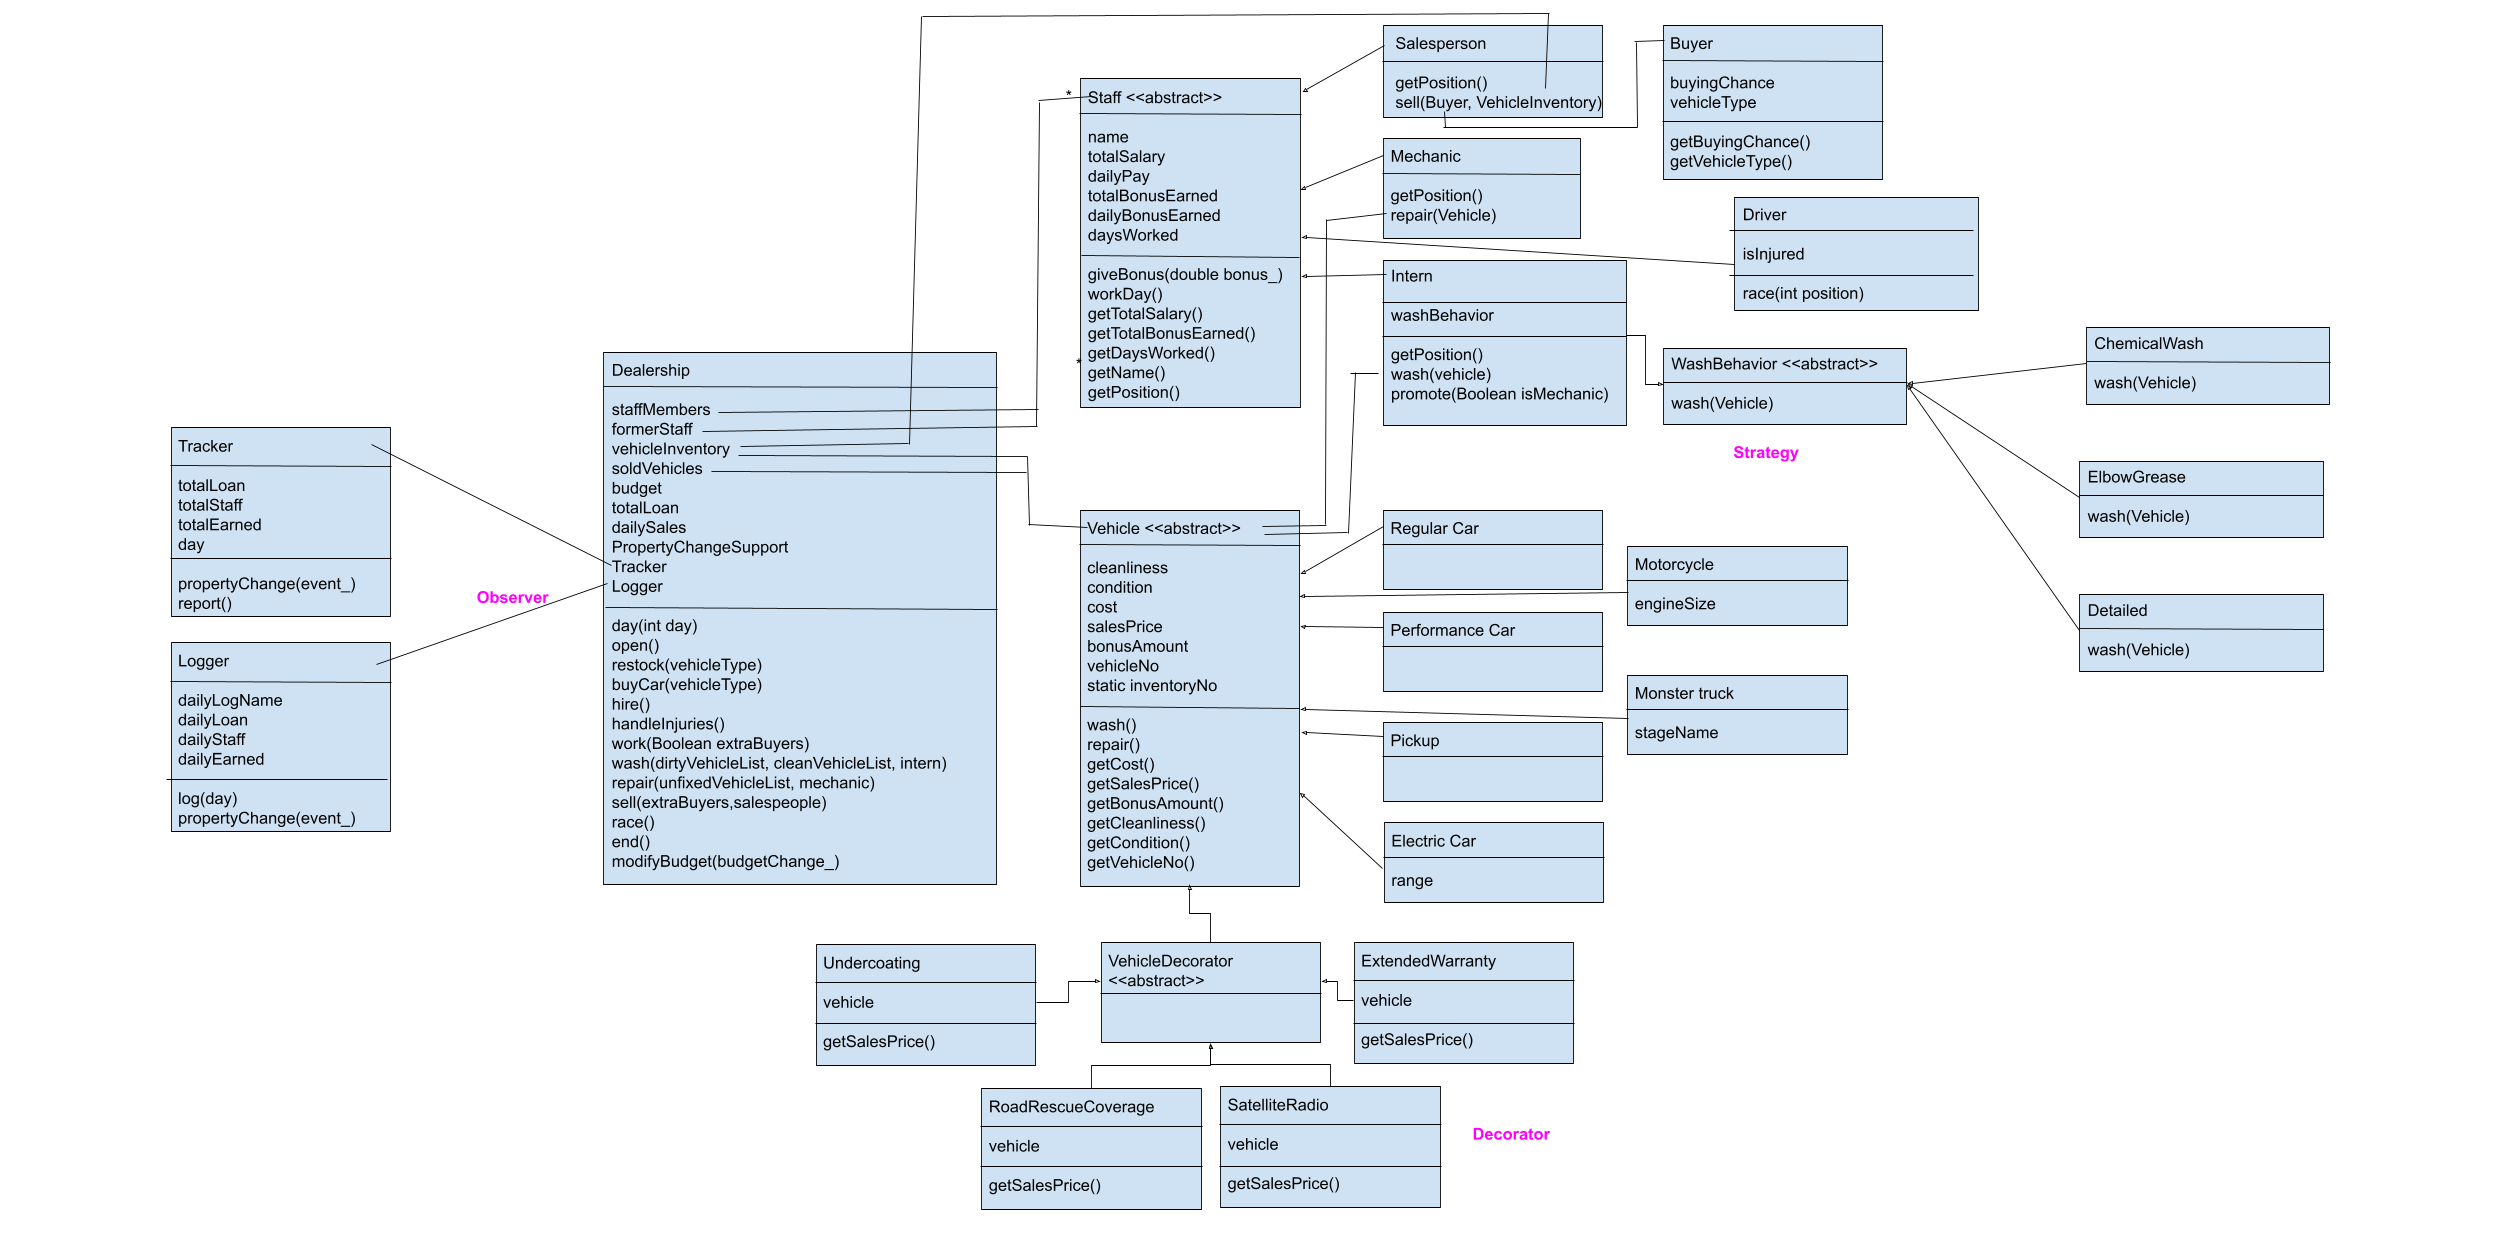
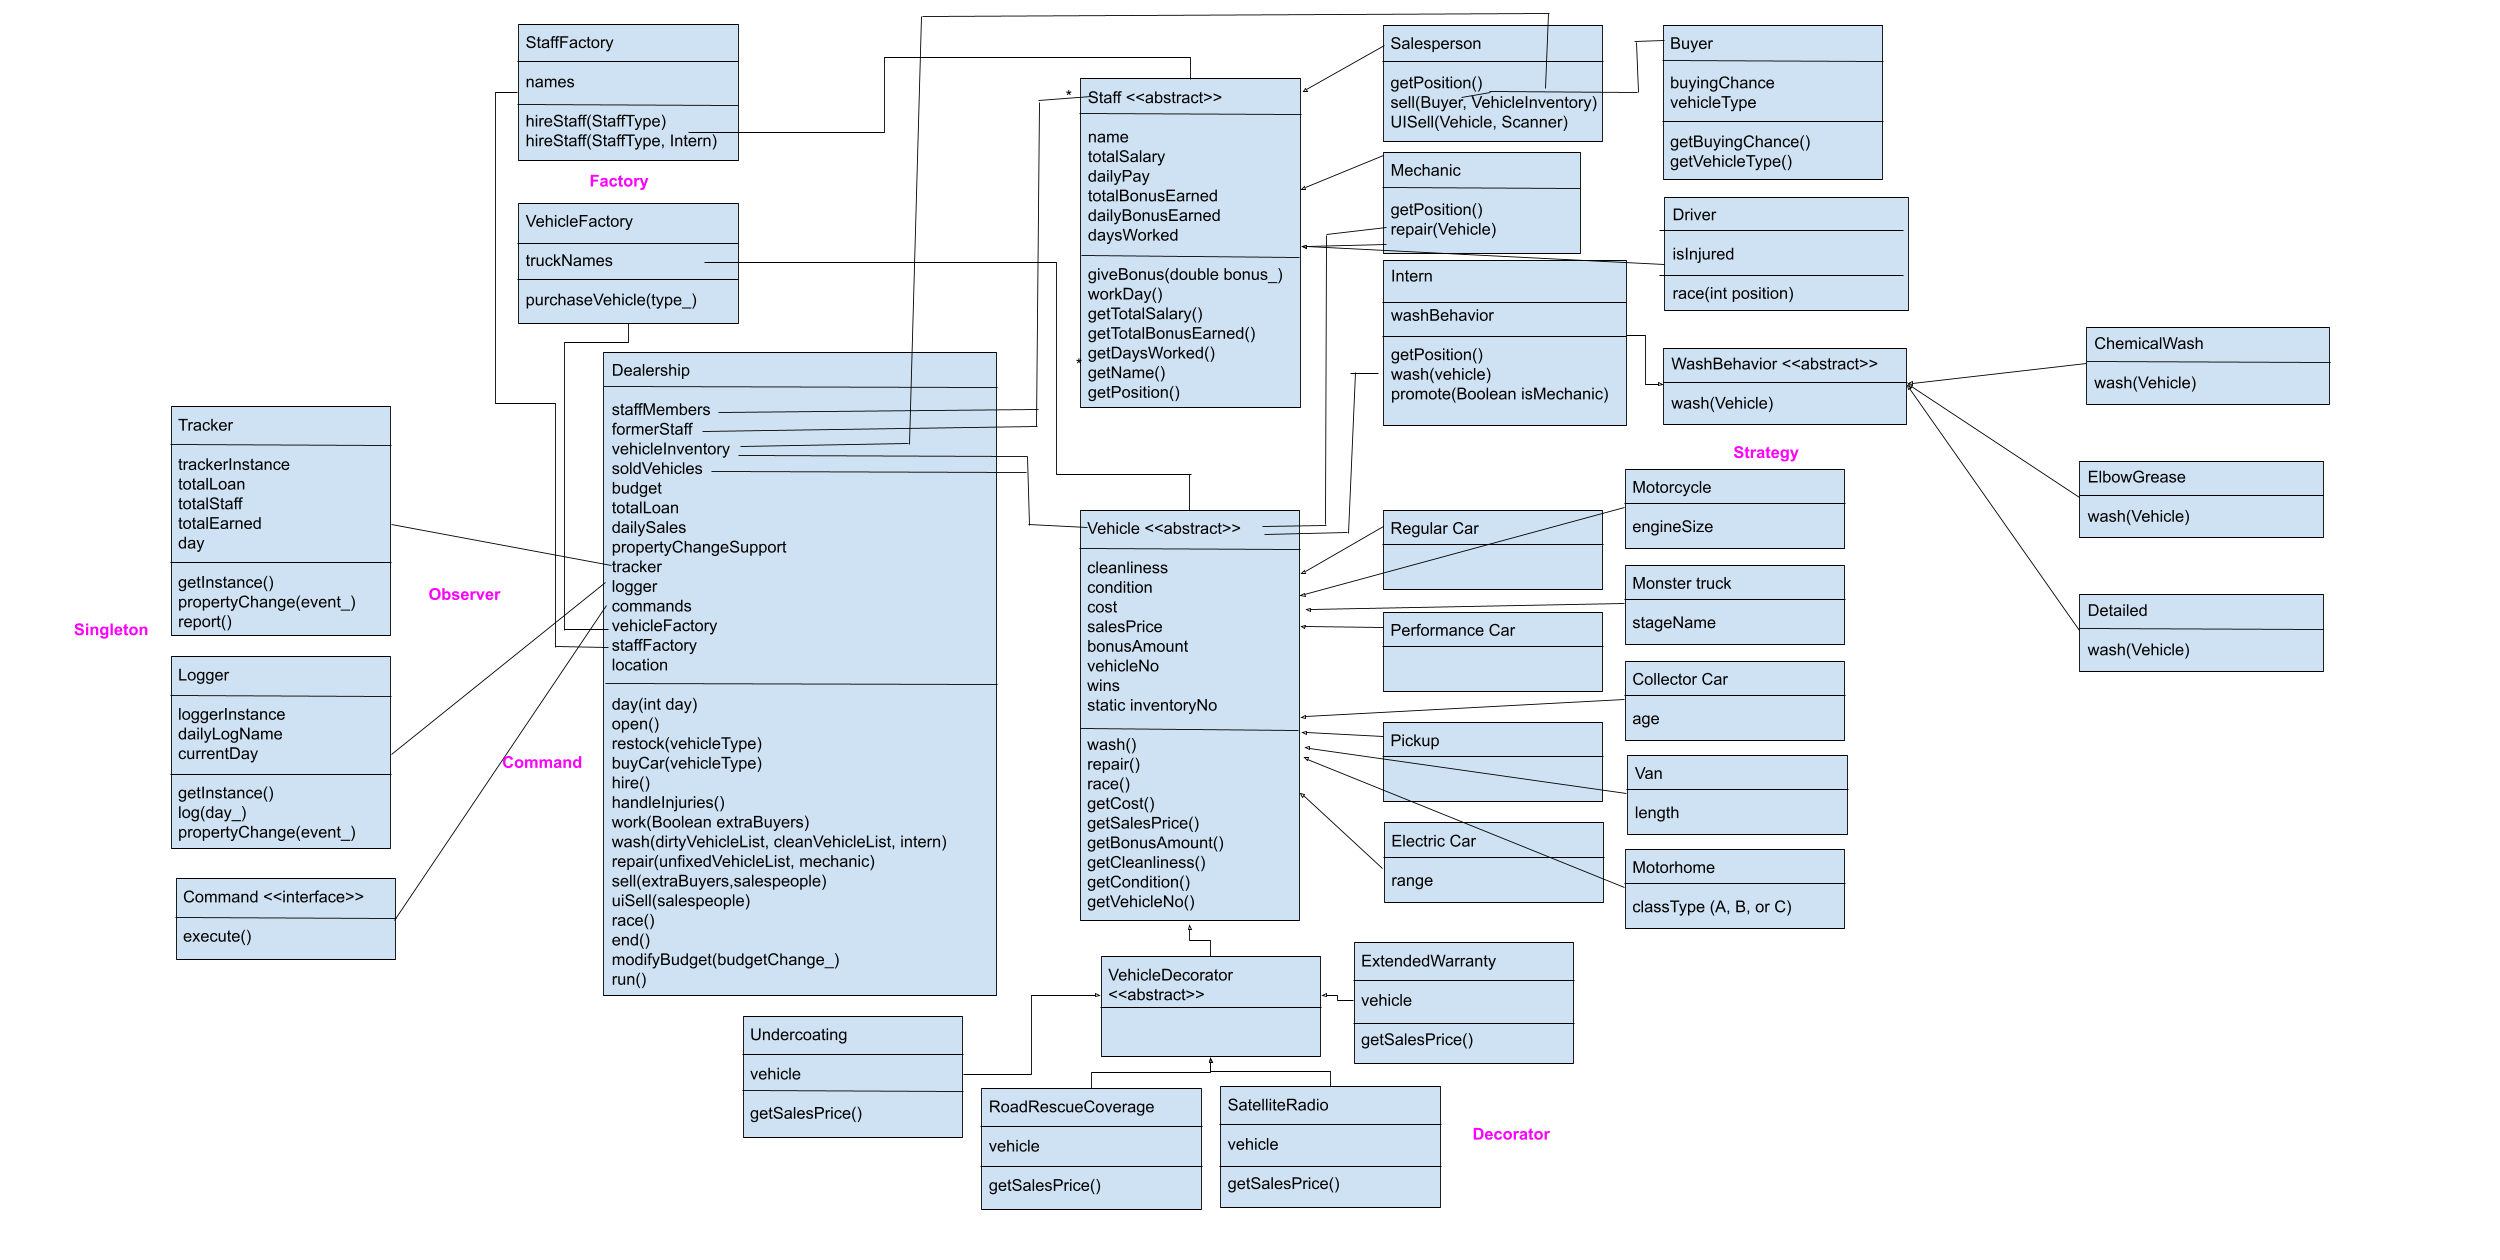
comments, uml diagram, readme

diff --git a/src/main/java/classes/staff/StaffFactory.java b/src/main/java/classes/staff/StaffFactory.java
@@ -6,6 +6,7 @@ import java.util.ArrayList;
 import java.util.Arrays;
 import java.util.Random;
 
+// OO PATTERN: FACTORY
 public class StaffFactory {
     private ArrayList<String> names = new ArrayList<>(Arrays.asList("John", "William", "James", "Charles", "George", "Frank", "Joseph", "Thomas", "Henry", "Robert", "Edward", "Harry", "Walter", "Arthur", "Fred", "Albert", "Samuel", "David", "Louis", "Joe", "Charlie", "Clarence", "Richard", "Andrew", "Daniel", "Ernest", "Will", "Jesse", "Oscar", "Lewis", "Peter", "Benjamin", "Frederick", "Willie", "Alfred", "Sam", "Roy", "Herbert", "Jacob", "Tom", "Elmer", "Carl", "Lee", "Howard", "Martin", "Michael", "Bert", "Herman", "Jim", "Francis", "Harvey", "Earl", "Eugene", "Ralph", "Ed", "Claude", "Edwin", "Ben", "Charley", "Paul", "Edgar", "Isaac", "Otto", "Luther", "Lawrence", "Ira", "Patrick", "Guy", "Oliver", "Theodore", "Hugh", "Clyde", "Alexander", "August", "Floyd", "Homer", "Jack", "Leonard", "Horace", "Marion", "Philip", "Allen", "Archie", "Stephen", "Chester", "Willis", "Raymond", "Rufus", "Warren", "Jessie", "Milton", "Alex", "Leo", "Julius", "Ray", "Sidney", "Bernard", "Dan", "Jerry", "Calvin", "Perry", "Dave", "Anthony", "Eddie", "Amos", "Dennis", "Clifford", "Leroy", "Wesley", "Alonzo", "Garfield", "Franklin", "Emil", "Leon", "Nathan", "Harold", "Matthew", "Levi", "Moses", "Everett", "Lester", "Winfield", "Adam", "Lloyd", "Mack", "Fredrick", "Jay", "Jess", "Melvin", "Noah", "Aaron", "Alvin", "Norman", "Gilbert", "Elijah", "Victor", "Gus", "Nelson", "Jasper", "Silas", "Christopher", "Jake", "Mike", "Percy", "Adolph", "Maurice", "Cornelius", "Felix", "Reuben", "Wallace", "Claud", "Roscoe", "Sylvester", "Earnest", "Hiram", "Otis", "Simon", "Willard", "Irvin", "Mark", "Jose", "Wilbur", "Abraham", "Virgil", "Clinton", "Elbert", "Leslie", "Marshall", "Owen", "Wiley", "Anton", "Morris", "Manuel", "Phillip", "Augustus", "Emmett", "Eli", "Nicholas", "Wilson", "Alva", "Harley", "Newton", "Timothy", "Marvin", "Ross", "Curtis", "Edmund", "Jeff", "Elias", "Harrison", "Stanley", "Columbus", "Lon", "Ora", "Ollie", "Russell", "Pearl", "Solomon", "Arch", "Asa"));
     

diff --git a/src/main/java/classes/Dealership.java b/src/main/java/classes/Dealership.java
@@ -628,6 +628,8 @@ public class Dealership extends Thread {
         Scanner scan = new Scanner(System.in);
         final Salesperson[] seller = {salespeople_.get(rng.nextInt(salespeople_.size()))};
         salespeople_.remove(seller[0]);
+        
+        // OO PATTERN: COMMAND
         HashMap<String, Command> commandMap = new HashMap<>();
         commandMap.put("switch", (n) -> {
             unlock.release();
@@ -679,6 +681,7 @@ public class Dealership extends Thread {
             return "Thank you for your purchase";
             
         });
+        
         
         lock.acquire();
         String usrIn = "";

diff --git a/src/main/java/classes/Tracker.java b/src/main/java/classes/Tracker.java
@@ -11,6 +11,8 @@ public class Tracker implements PropertyChangeListener {
     double totalStaff;
     double totalEarned;
     int day;
+    
+    // OO PATTERN: SINGLETON (EAGER)
     static Tracker trackerInstance = new Tracker();
     
     private Tracker(){}

diff --git a/src/main/java/classes/Logger.java b/src/main/java/classes/Logger.java
@@ -20,6 +20,7 @@ public class Logger implements PropertyChangeListener {
     
     int currentDay = 1;
     
+    // OO PATTERN: SINGLETON (LAZY)
     static Logger loggerInstance;
     
     public static synchronized Logger getInstance(int day_) {

diff --git a/src/main/java/classes/vehicles/VehicleFactory.java b/src/main/java/classes/vehicles/VehicleFactory.java
@@ -6,6 +6,7 @@ import java.util.ArrayList;
 import java.util.HashMap;
 import java.util.Random;
 
+// OO PATTERN: FACTORY
 public class VehicleFactory {
     
     /**

diff --git a/src/main/java/classes/Command.java b/src/main/java/classes/Command.java
@@ -1,5 +1,6 @@
 package classes;
 
+// OO PATTERN: COMMAND
 public interface Command {
     public String execute(int param_) throws InterruptedException;
 }

diff --git a/README.md b/README.md
@@ -21,19 +21,15 @@ forgotten to include at all in our first draft.
 
 #### Changes from 3.1
 We had some changes on the UML Diagram between Project 3.1 and 3.2. Most were relatively minor with some implementation details concerning parameters and functions for Tracker and Logger and Dealership. We also added the WashBehavior subclasses. For Project 3.1 we had a decent idea with what had to be done and a good baseline to start with, so there were no major structural changes
-## OO Elements
 
-Inheritance - Dealership:158
+#### Changes from 4.1
+We had some minor changes on the UML Diagram in Project 4.2.
 
-Polymorphism - Dealership:314
+1. We added the `UISell(Vehicle, Scanner)` to `Salesperson`
+2. We move the static `names` and `stageNames` lists from the abstract classes to their respective factories to head off any threading issues
+3. We added a second `hireStaff()` method to `StaffFactory` to handle promoting interns
+4. Most notably, we converted `Dealership` to an implementation of `Thread`, and added the `run()` method
 
-Cohesion - Dealership:147
-
-Identity - Dealership:273
-
-Encapsulation - Dealership:365
-
-Abstraction - Vehicle:90
 
 ## File Structure
 
@@ -66,6 +62,7 @@ ooad-fncd
     │       │
     │       ├───classes
     │       │   │   Buyer.java
+    │       │   │   Command.java
     │       │   │   Dealership.java
     │       │   │   Logger.java
     │       │   │   Tracker.java
@@ -83,6 +80,7 @@ ooad-fncd
     │       │   │   │   Mechanic.java
     │       │   │   │   Salesperson.java
     │       │   │   │   Staff.java
+    │       │   │   │   StaffFactory.java
     │       │   │   │
     │       │   │   └───WashBehavior
     │       │   │           ChemicalWash.java
@@ -91,13 +89,17 @@ ooad-fncd
     │       │   │           WashBehavior.java
     │       │   │
     │       │   └───vehicles
+    │       │       │   CollectorCar.java
     │       │       │   ElectricCar.java
     │       │       │   MonsterTruck.java
     │       │       │   Motorcycle.java
+    │       │       │   Motorhome.java
     │       │       │   PerformanceCar.java
     │       │       │   Pickup.java
     │       │       │   RegularCar.java
+    │       │       │   Van.java
     │       │       │   Vehicle.java
+    │       │       │   VehicleFactory.java
     │       │       │
     │       │       └───addon
     │       │               AddOnDecorator.java
@@ -109,6 +111,8 @@ ooad-fncd
     │       └───enums
     │               Cleanliness.java
     │               Condition.java
+    │               StaffType.java
+    │               VehicleType.java
     │
     └───test
         └───java
